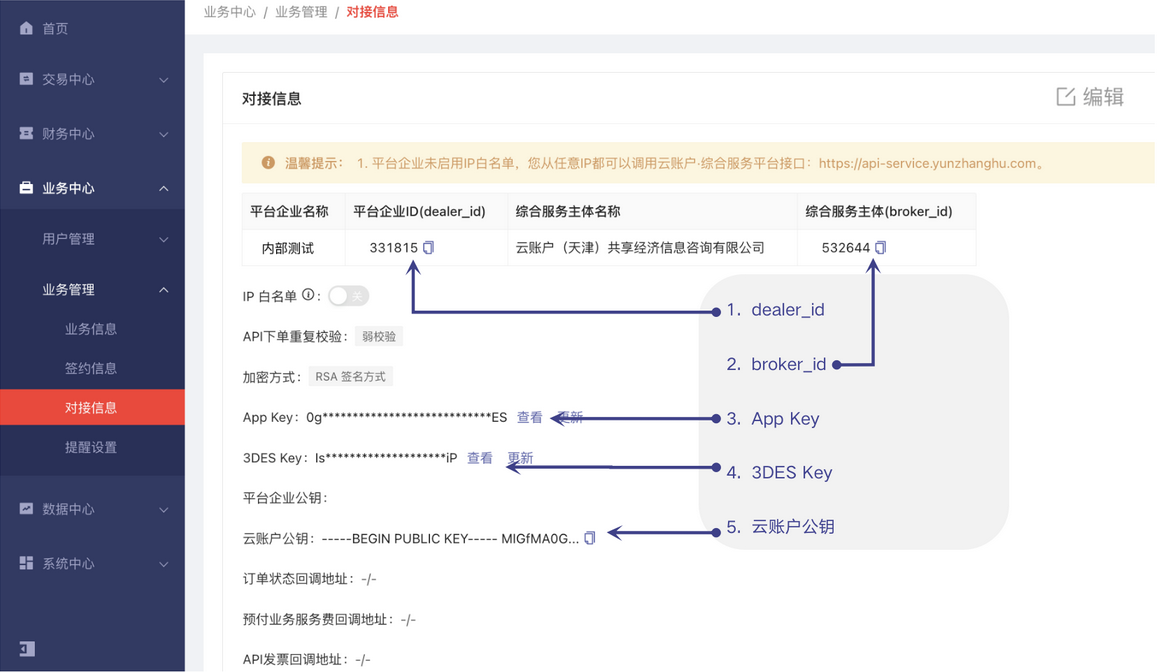
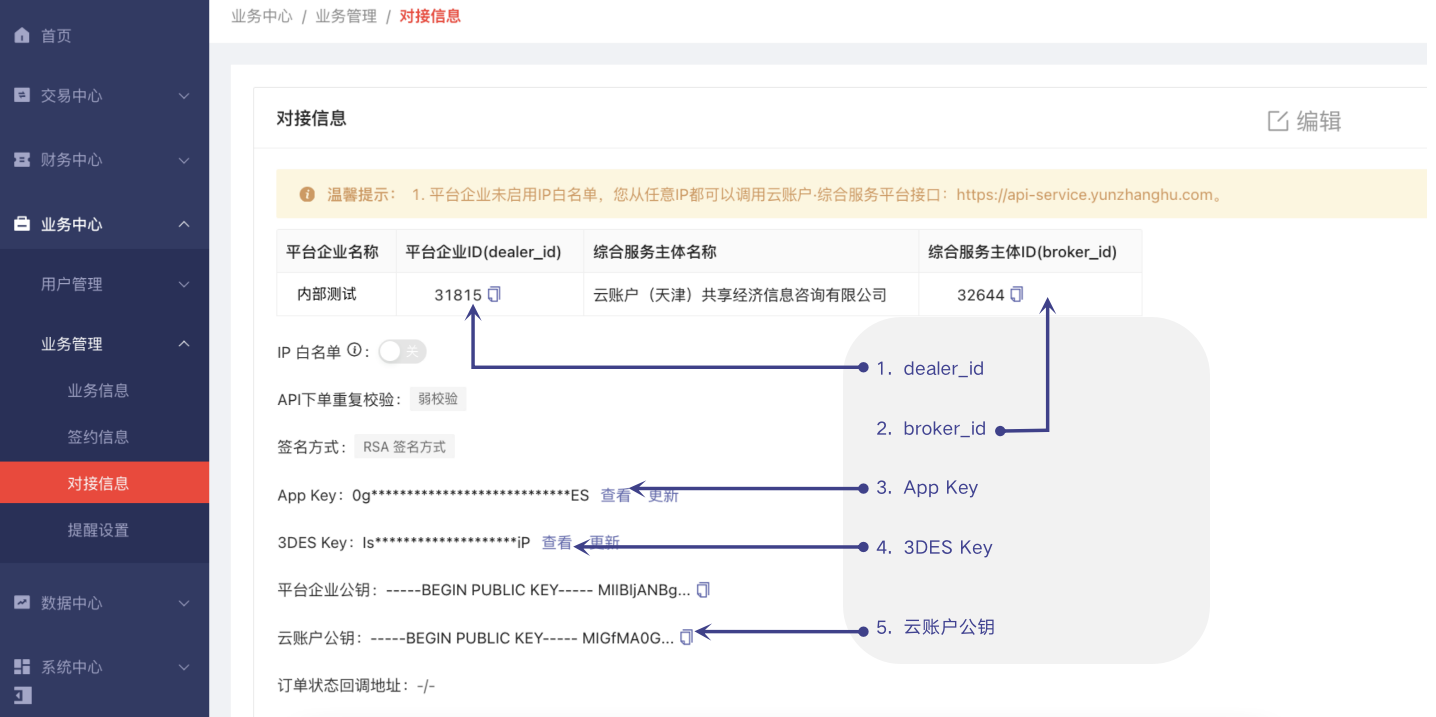
更新对接信息配置图;更新接口列表顺序

diff --git a/README.md b/README.md
@@ -66,11 +66,12 @@ composer require yunzhanghuopen/sdk-php
 
 ### 3、示例功能列表      
 
-- [实时下单接口](example/payment.php )    
+### 3、示例功能列表      
+
+- [H5 签约](example/h5UserSign.php ) or [API 签约](example/apiUserSign.php )  
+- [实时下单接口](example/payment.php ) 
+- [订单异步回调](example/notify.php )     
 - [数据接口](example/dataService.php )    
-- [用户信息验证接口](example/verify.php )      
 - [发票接口](example/invoice.php )     
-- [个税扣缴明细接口](example/tax.php )       
-- [订单异步回调](example/notify.php )  
-- [H5 签约](example/h5UserSign.php ) 
-- [API 签约](example/apiUserSign.php )  
+- [个税扣缴明细表下载接口](example/tax.php )       
+- [用户信息验证接口](example/verify.php )
